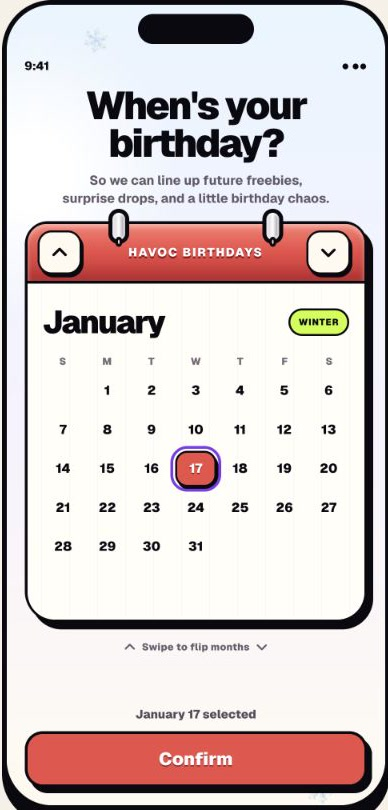
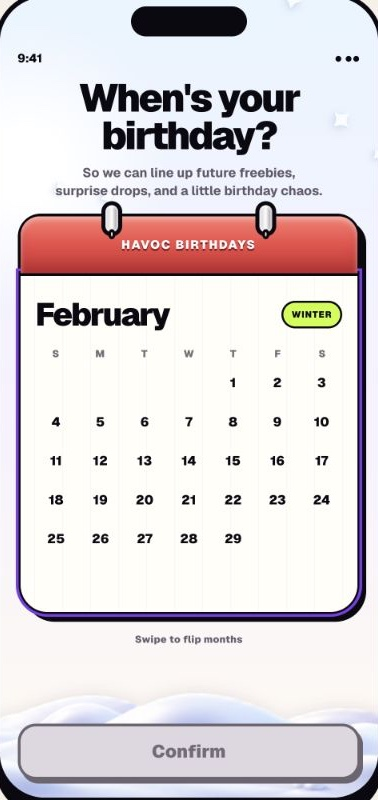
feat(onboarding): add keyboard and seasonal layers

diff --git a/app/page.tsx b/app/page.tsx
@@ -1,7 +1,7 @@
 "use client";
 
 import { useEffect, useRef, useState } from "react";
-import type { CSSProperties, KeyboardEvent as ReactKeyboardEvent } from "react";
+import type { CSSProperties } from "react";
 
 import { getAgeLine } from "./age-copy";
 import { BirthdayCalendarScreen } from "./birthday-calendar";
@@ -245,6 +245,7 @@ function AgeScreen({ next }: { next: () => void }) {
   const settleTimerRef = useRef<number | null>(null);
   const celebrationTimersRef = useRef<number[]>([]);
   const settledAgeRef = useRef(18);
+  const keyboardAgeRef = useRef(18);
   const candleLayout = celebration === "idle" ? [] : getCandleLayout(age);
 
   useEffect(() => {
@@ -263,6 +264,7 @@ function AgeScreen({ next }: { next: () => void }) {
     const safeAge = Math.max(1, Math.min(99, nextAge));
     const carousel = carouselRef.current;
     const card = carousel?.querySelector<HTMLElement>(`[data-age="${safeAge}"]`);
+    keyboardAgeRef.current = safeAge;
 
     if (carousel && card) {
       const left = card.offsetLeft - (carousel.clientWidth - card.offsetWidth) / 2;
@@ -322,6 +324,7 @@ function AgeScreen({ next }: { next: () => void }) {
       window.clearTimeout(settleTimerRef.current);
     }
     settleTimerRef.current = window.setTimeout(() => {
+      keyboardAgeRef.current = nextAge;
       if (nextAge !== settledAgeRef.current) {
         settledAgeRef.current = nextAge;
         setAge(nextAge);
@@ -330,14 +333,13 @@ function AgeScreen({ next }: { next: () => void }) {
     }, 110);
   };
 
-  const handleAgeKeys = (event: ReactKeyboardEvent<HTMLDivElement>) => {
+  const handleAgeKeys = (event: Pick<KeyboardEvent, "key" | "preventDefault">) => {
+    const keyboardAge = keyboardAgeRef.current;
     const commands: Record<string, number> = {
-      ArrowLeft: age - 1,
-      ArrowDown: age - 1,
-      ArrowRight: age + 1,
-      ArrowUp: age + 1,
-      PageDown: age - 10,
-      PageUp: age + 10,
+      ArrowLeft: keyboardAge - 1,
+      ArrowRight: keyboardAge + 1,
+      PageDown: keyboardAge - 10,
+      PageUp: keyboardAge + 10,
       Home: 1,
       End: 99,
     };
@@ -346,6 +348,39 @@ function AgeScreen({ next }: { next: () => void }) {
     event.preventDefault();
     scrollToAge(commands[event.key], event.key === "Home" || event.key === "End" ? "auto" : "smooth");
   };
+
+  useEffect(() => {
+    if (celebration !== "idle") return;
+
+    const handleWindowAgeKeys = (event: KeyboardEvent) => {
+      if (event.defaultPrevented) return;
+      const target = event.target as HTMLElement | null;
+      if (
+        target?.isContentEditable ||
+        target?.tagName === "INPUT" ||
+        target?.tagName === "TEXTAREA" ||
+        target?.tagName === "SELECT"
+      ) {
+        return;
+      }
+
+      const ageKeys = [
+        "ArrowLeft",
+        "ArrowRight",
+        "PageDown",
+        "PageUp",
+        "Home",
+        "End",
+      ];
+      if (!ageKeys.includes(event.key)) return;
+
+      event.stopPropagation();
+      handleAgeKeys(event);
+    };
+
+    window.addEventListener("keydown", handleWindowAgeKeys);
+    return () => window.removeEventListener("keydown", handleWindowAgeKeys);
+  }, [celebration]);
 
   const confirmAge = () => {
     if (celebration !== "idle") return;
@@ -601,12 +636,25 @@ export default function Home() {
 
   useEffect(() => {
     const onKey = (event: KeyboardEvent) => {
+      const target = event.target as HTMLElement | null;
+      if (
+        target?.isContentEditable ||
+        target?.tagName === "INPUT" ||
+        target?.tagName === "TEXTAREA" ||
+        target?.tagName === "SELECT"
+      ) {
+        return;
+      }
+
+      const activeScreen = screens[step].id;
+      if (activeScreen === "age" || activeScreen === "birthday") return;
+
       if (event.key === "ArrowRight") next();
       if (event.key === "ArrowLeft") previous();
     };
     window.addEventListener("keydown", onKey);
     return () => window.removeEventListener("keydown", onKey);
-  }, []);
+  }, [step]);
 
   return <main>
     <header className="site-header">

diff --git a/app/birthday-calendar.tsx b/app/birthday-calendar.tsx
@@ -52,6 +52,14 @@ type CalendarFlipProps = {
   monthIndex: number;
 };
 
+type SeasonParticleStyle = CSSProperties & {
+  "--particle-delay": string;
+  "--particle-drift": string;
+  "--particle-duration": string;
+  "--particle-scale": string;
+  "--particle-x": string;
+};
+
 function getSeason(month: number): Season {
   if (month === 11 || month <= 1) return "winter";
   if (month <= 4) return "spring";
@@ -308,11 +316,31 @@ function CalendarPageLift({ direction, monthIndex }: CalendarFlipProps) {
 }
 
 function SeasonalScene({ season }: { season: Season }) {
+  const particleCount = season === "winter" ? 11 : season === "autumn" ? 9 : 8;
+  const particlePositions = [5, 15, 27, 39, 51, 63, 75, 87, 95, 21, 69];
+
   return (
     <div
       className={`birthday-seasonal-scene ${season}-scene`}
       aria-hidden="true"
     >
+      <div className="season-particles">
+        {Array.from({ length: particleCount }, (_, index) => (
+          <span
+            className="season-particle"
+            key={`${season}-${index}`}
+            style={
+              {
+                "--particle-delay": `${-(index * 0.83 + (index % 3) * 0.41)}s`,
+                "--particle-drift": `${((index % 5) - 2) * 13}px`,
+                "--particle-duration": `${5.4 + (index % 4) * 0.78}s`,
+                "--particle-scale": `${0.72 + (index % 4) * 0.13}`,
+                "--particle-x": `${particlePositions[index]}%`,
+              } as SeasonParticleStyle
+            }
+          />
+        ))}
+      </div>
       <img
         className={`season-ground season-ground-${season}`}
         src={`/havoc-season-${season}.png`}
@@ -335,6 +363,7 @@ export function BirthdayCalendarScreen({ next }: { next: () => void }) {
   const [dragDistance, setDragDistance] = useState(0);
   const pointerStartRef = useRef<number | null>(null);
   const flipIdRef = useRef(0);
+  const monthRef = useRef(0);
   const reducedMotion = useReducedMotion();
   const season = getSeason(month);
   const cells = getMonthCells(month);
@@ -349,8 +378,9 @@ export function BirthdayCalendarScreen({ next }: { next: () => void }) {
   }, [flip]);
 
   const changeMonth = (direction: FlipDirection) => {
-    const previousMonth = month;
-    const nextMonth = (month + direction + 12) % 12;
+    const previousMonth = monthRef.current;
+    const nextMonth = (previousMonth + direction + 12) % 12;
+    monthRef.current = nextMonth;
     setSelectedDay(null);
 
     if (!reducedMotion) {
@@ -398,6 +428,36 @@ export function BirthdayCalendarScreen({ next }: { next: () => void }) {
       changeMonth(1);
     }
   };
+
+  useEffect(() => {
+    const handleWindowCalendarKeys = (event: KeyboardEvent) => {
+      if (event.defaultPrevented) return;
+      const target = event.target as HTMLElement | null;
+      if (
+        target?.isContentEditable ||
+        target?.tagName === "INPUT" ||
+        target?.tagName === "TEXTAREA" ||
+        target?.tagName === "SELECT"
+      ) {
+        return;
+      }
+
+      if (event.key === "ArrowUp" || event.key === "PageUp") {
+        event.preventDefault();
+        event.stopPropagation();
+        changeMonth(-1);
+      }
+      if (event.key === "ArrowDown" || event.key === "PageDown") {
+        event.preventDefault();
+        event.stopPropagation();
+        changeMonth(1);
+      }
+    };
+
+    window.addEventListener("keydown", handleWindowCalendarKeys);
+    return () =>
+      window.removeEventListener("keydown", handleWindowCalendarKeys);
+  }, [reducedMotion]);
 
   return (
     <div className={`screen birthday-screen season-${season}`}>

diff --git a/app/globals.css b/app/globals.css
@@ -1558,6 +1558,18 @@
   letter-spacing: .02em;
 }
 
+.calendar-swipe-hint span {
+  display: inline-flex;
+  min-height: 25px;
+  align-items: center;
+  padding: 3px 10px;
+  border-radius: 99px;
+  background: #fffaf0e8;
+  box-shadow: 0 3px 10px #3a203821;
+  color: var(--ink);
+  backdrop-filter: blur(5px);
+}
+
 .birthday-confirm {
   position: absolute;
   right: 18px;
@@ -1599,12 +1611,100 @@
   pointer-events: none;
 }
 
+.season-particles {
+  position: absolute;
+  z-index: 1;
+  inset: 0;
+  overflow: hidden;
+}
+
+.season-particle {
+  position: absolute;
+  top: -56px;
+  left: var(--particle-x);
+  display: block;
+  opacity: 0;
+  transform-origin: center;
+  will-change: transform,opacity;
+  animation: season-particle-fall var(--particle-duration) var(--particle-delay) linear infinite;
+}
+
+.winter-scene .season-particle {
+  width: 24px;
+  height: 24px;
+}
+
+.winter-scene .season-particle::before {
+  display: block;
+  color: #fff;
+  content: "✦";
+  font-size: 23px;
+  font-weight: 950;
+  line-height: 1;
+  text-align: center;
+  text-shadow:
+    0 1px 0 #b8d9f0,
+    0 3px 8px #708bbf66;
+}
+
+.spring-scene .season-particle {
+  width: 9px;
+  height: 26px;
+  border: 2px solid #146c9f45;
+  border-radius: 90% 10% 80% 20%;
+  background: linear-gradient(145deg,#b9efff 0%,#3dbbe9 58%,#277ebd 100%);
+  box-shadow: inset 2px 2px 3px #fff9;
+  rotate: 13deg;
+}
+
+.summer-scene .season-particle {
+  width: 11px;
+  height: 11px;
+  border-radius: 50%;
+  background: #ffb51f;
+  box-shadow:
+    0 0 0 4px #fff2a65c,
+    0 0 13px #ff8a1f;
+}
+
+.autumn-scene .season-particle {
+  width: 29px;
+  height: 17px;
+  border-radius: 88% 12% 82% 18%;
+  background: linear-gradient(145deg,#ff7a43 0%,#ec3439 62%,#9d1830 100%);
+  box-shadow:
+    inset 3px 3px 4px #ffbe8e80,
+    0 3px 5px #7622372b;
+}
+
+.autumn-scene .season-particle:nth-child(3n+2) {
+  background: linear-gradient(145deg,#ff9453 0%,#ff4e2f 58%,#b52a2f 100%);
+}
+
+.autumn-scene .season-particle:nth-child(3n) {
+  background: linear-gradient(145deg,#de4a69 0%,#b51f49 61%,#711334 100%);
+}
+
+.autumn-scene .season-particle::after {
+  position: absolute;
+  top: 7px;
+  right: 5px;
+  left: 5px;
+  height: 2px;
+  border-radius: 99px;
+  background: #7f1635a8;
+  content: "";
+  rotate: -7deg;
+}
+
 .season-ground {
   position: absolute;
+  z-index: 2;
   bottom: -2px;
   left: 50%;
   display: block;
-  width: max(172%, 640px);
+  width: max(320%, 1200px);
+  max-width: none;
   height: auto;
   filter: drop-shadow(0 -4px 6px #4c2a5314);
   translate: -50% 0;
@@ -1632,6 +1732,31 @@
   to {
     opacity: 1;
     translate: -50% 0;
+  }
+}
+
+@keyframes season-particle-fall {
+  0% {
+    opacity: 0;
+    transform: translate3d(0,-70px,0) rotate(-22deg) scale(var(--particle-scale));
+  }
+
+  12% {
+    opacity: .72;
+  }
+
+  52% {
+    opacity: .68;
+    transform: translate3d(var(--particle-drift),430px,0) rotate(126deg) scale(var(--particle-scale));
+  }
+
+  88% {
+    opacity: .58;
+  }
+
+  100% {
+    opacity: 0;
+    transform: translate3d(0,870px,0) rotate(286deg) scale(var(--particle-scale));
   }
 }
 
@@ -1671,6 +1796,10 @@
 
   .birthday-seasonal-scene .season-ground {
     animation: none !important;
+  }
+
+  .birthday-seasonal-scene .season-particles {
+    display: none;
   }
 
   .calendar-paper {
